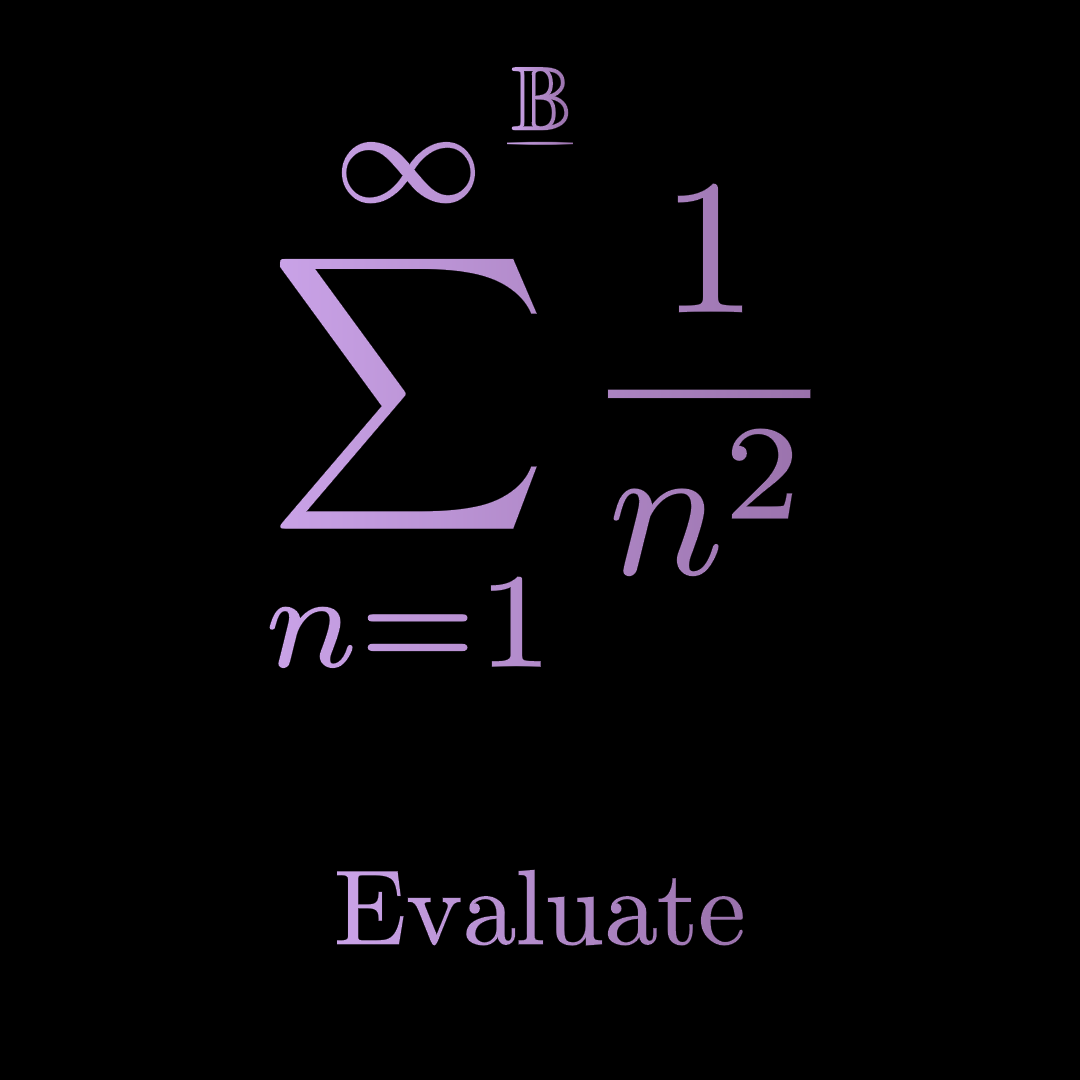
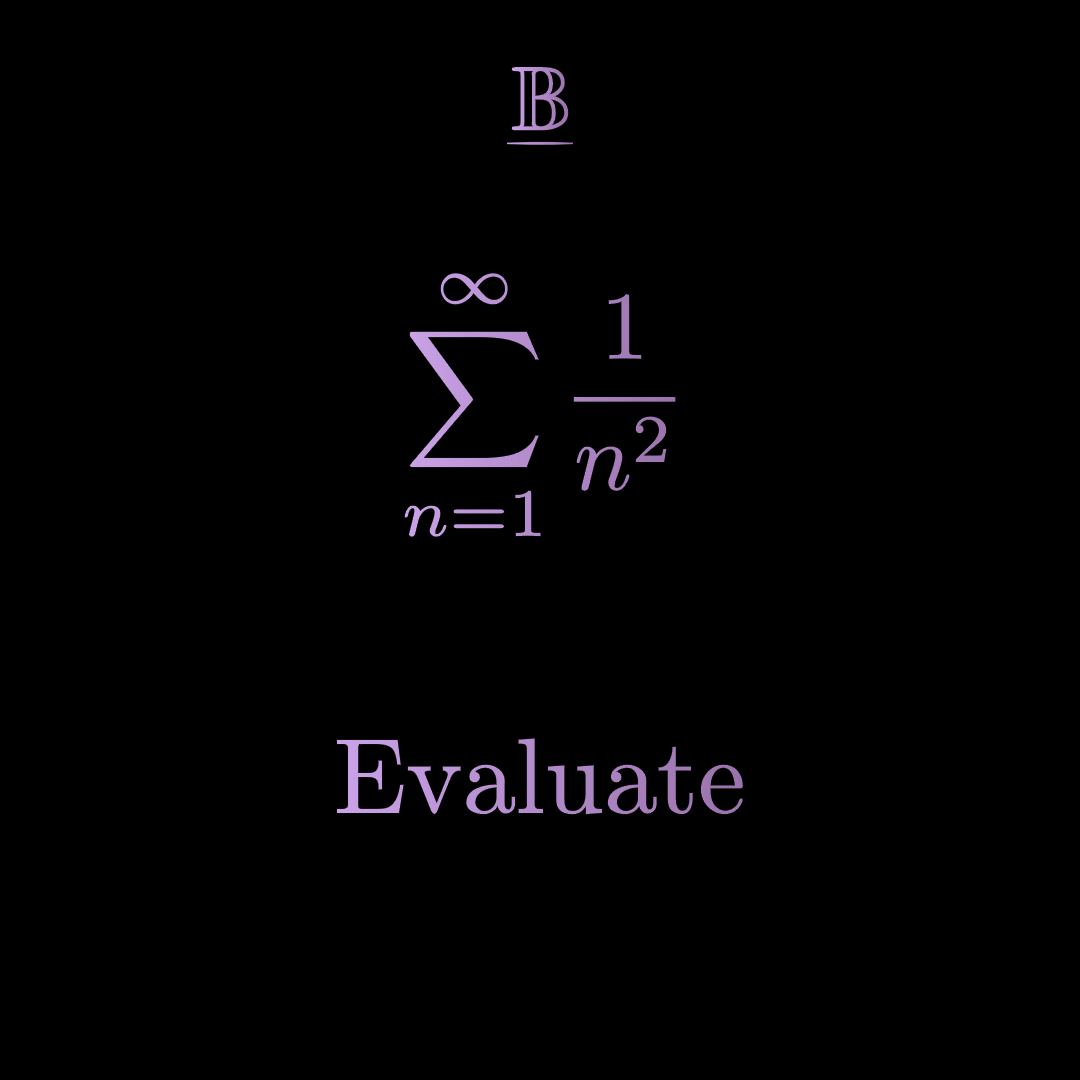
f

diff --git a/char.py b/char.py
@@ -61,7 +61,7 @@ class B(InteractiveScene):
         problem = Tex(R"\sum_{n=1}^{\infty}\frac{1}{n^2}")
         problem.set_color(color)
         problem.shift(UP)
-        problem.set_width(FRAME_WIDTH - 4)
+        problem.set_width(FRAME_WIDTH - 6)
         self.add(problem)
 
         solve = TexText("Evaluate")
